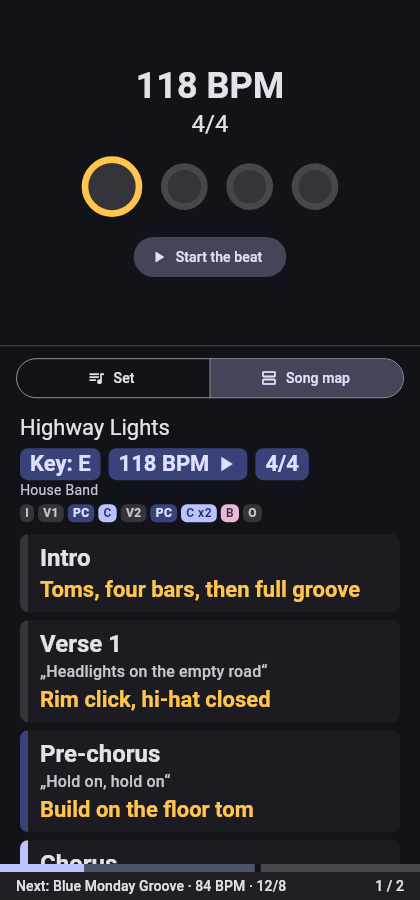
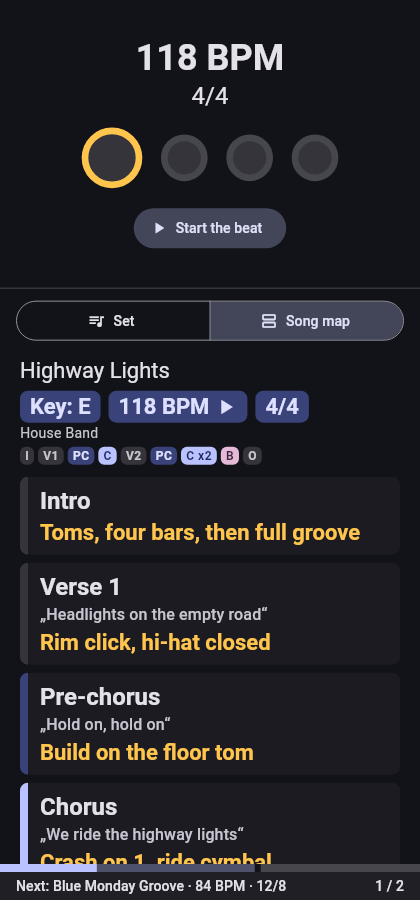
feat(live): beat one third, song map two thirds on phones
With the song map on a phone in portrait the beat now takes a third of
the height and the song map two thirds (was 2:3). The large beat scales
down where its third is too short, so small phones do not overflow.

Refs #961

Changed region(s): [[0.031, 0.0311, 0.9595, 0.9644], [0.681, 0.1244, 0.8048, 0.2489], [0.031, 0.3422, 0.0619, 0.3733]]

diff --git a/app/lib/ui/live/live_beat.dart b/app/lib/ui/live/live_beat.dart
@@ -691,8 +691,8 @@ class DrumPanel extends StatelessWidget {
     final set = _SetList(items: items, current: current, onSelect: onSelect);
     final onView = this.onView;
     final songMap = this.songMap;
-    // The song map needs more room than the set; the beat keeps enough
-    // for its dots and button.
+    // The song map needs more room than the set: in portrait the beat
+    // takes a third of the height (#961) and scales down to fit it.
     final mapRoom =
         onView != null &&
         view == DrumPanelView.songMap &&
@@ -702,16 +702,13 @@ class DrumPanel extends StatelessWidget {
       direction: direction,
       crossAxisAlignment: CrossAxisAlignment.stretch,
       children: [
-        Expanded(
-          flex: mapRoom ? 2 : 1,
-          child: _LargeBeat(index: current),
-        ),
+        Expanded(flex: 1, child: _LargeBeat(index: current)),
         if (direction == Axis.vertical)
           const Divider(height: 1)
         else
           const VerticalDivider(width: 1),
         Expanded(
-          flex: mapRoom ? 3 : 1,
+          flex: mapRoom ? 2 : 1,
           child: onView == null
               ? set
               : Column(
@@ -774,37 +771,44 @@ class _LargeBeat extends StatelessWidget {
         // As large as the width allows for the beats of the bar.
         final count = meter.beatsPerBar + meter.groups.length;
         final size = (constraints.maxWidth / (count * 1.8)).clamp(16.0, 72.0);
-        return Padding(
-          padding: const EdgeInsets.all(16),
-          child: Column(
-            key: const Key('large-beat'),
-            mainAxisAlignment: MainAxisAlignment.center,
-            children: [
-              Text(
-                beat.tempoChanged(index)
-                    ? '${l10n.bpm(tempo)} *'
-                    : l10n.bpm(tempo),
-                style: theme.textTheme.displaySmall?.copyWith(
-                  fontWeight: FontWeight.w800,
-                ),
+        // Scaled down where the height is short, e.g. a third of a small
+        // phone beside the song map (#961).
+        return Center(
+          child: FittedBox(
+            fit: BoxFit.scaleDown,
+            child: Padding(
+              padding: const EdgeInsets.all(16),
+              child: Column(
+                key: const Key('large-beat'),
+                mainAxisSize: MainAxisSize.min,
+                children: [
+                  Text(
+                    beat.tempoChanged(index)
+                        ? '${l10n.bpm(tempo)} *'
+                        : l10n.bpm(tempo),
+                    style: theme.textTheme.displaySmall?.copyWith(
+                      fontWeight: FontWeight.w800,
+                    ),
+                  ),
+                  Text(
+                    [meter.toString(), ?meter.groupingLabel].join('  ·  '),
+                    style: theme.textTheme.headlineSmall,
+                  ),
+                  const SizedBox(height: 16),
+                  FittedBox(
+                    child: BeatDots(index: index, size: size, panel: true),
+                  ),
+                  const SizedBox(height: 16),
+                  if (beat.canBeat(index))
+                    FilledButton.tonalIcon(
+                      key: const Key('large-beat-toggle'),
+                      onPressed: () => beat.toggle(index),
+                      icon: Icon(running ? Icons.stop : Icons.play_arrow),
+                      label: Text(running ? l10n.beatStop : l10n.beatStart),
+                    ),
+                ],
               ),
-              Text(
-                [meter.toString(), ?meter.groupingLabel].join('  ·  '),
-                style: theme.textTheme.headlineSmall,
-              ),
-              const SizedBox(height: 16),
-              FittedBox(
-                child: BeatDots(index: index, size: size, panel: true),
-              ),
-              const SizedBox(height: 16),
-              if (beat.canBeat(index))
-                FilledButton.tonalIcon(
-                  key: const Key('large-beat-toggle'),
-                  onPressed: () => beat.toggle(index),
-                  icon: Icon(running ? Icons.stop : Icons.play_arrow),
-                  label: Text(running ? l10n.beatStop : l10n.beatStart),
-                ),
-            ],
+            ),
           ),
         );
       },

diff --git a/app/test/live_song_map_test.dart b/app/test/live_song_map_test.dart
@@ -319,6 +319,12 @@ void main() {
     final map = tester.getRect(find.byKey(const Key('song-map')));
     expect(beat.bottom, lessThanOrEqualTo(map.top));
     expect(find.byKey(const Key('beat-dots')), findsOneWidget);
+    // The beat takes a third of the height, the song map two (#961).
+    final panel = tester.getRect(find.byKey(const Key('drum-panel')));
+    final switchTop = tester
+        .getRect(find.byKey(const Key('drum-panel-view')))
+        .top;
+    expect((switchTop - 8 - panel.top) / panel.height, closeTo(1 / 3, 0.01));
     // Remembered on the device.
     expect(app.prefs.getString('drumPanelView'), 'songMap');
 
@@ -334,6 +340,35 @@ void main() {
     await tester.tapAt(Offset(screen.center.dx, map.center.dy));
     await tester.pump();
     expect(find.byIcon(Icons.close), findsOneWidget);
+    await app.dispose(tester);
+  });
+
+  testWidgets('a small phone: the beat fits in its third (#961)', (
+    tester,
+  ) async {
+    tester.view.physicalSize = const Size(360, 640);
+    tester.view.devicePixelRatio = 1.0;
+    addTearDown(tester.view.reset);
+    final app = await TestApp.create(
+      prefs: {
+        'language': 'en',
+        'instrument': 'drums',
+        'clickStart': 'manual',
+        'drumPanelView': 'songMap',
+      },
+    );
+    final items = (await tester.runAsync(() async {
+      final id = await app.songs.createSong(source: first);
+      return [LiveItem.song((await app.songs.getSong(id))!)];
+    }))!;
+    await tester.pumpWidget(app.build(home: LiveScreen(items: items)));
+    await tester.pump();
+    await tester.pump();
+    // No overflow (the test fails on one); the beat stays above the map.
+    expect(find.byKey(const Key('large-beat-toggle')), findsOneWidget);
+    final toggle = tester.getRect(find.byKey(const Key('large-beat-toggle')));
+    final view = tester.getRect(find.byKey(const Key('drum-panel-view')));
+    expect(toggle.bottom, lessThanOrEqualTo(view.top));
     await app.dispose(tester);
   });
 

diff --git a/docs/architecture/adr/0026-drummer-mode.md b/docs/architecture/adr/0026-drummer-mode.md
@@ -208,6 +208,7 @@ with the idle-time preparation of the next song (#296).
 - 2026-11-20: Accepted by the owner (#698). A grouping per band arrangement stays open until a band needs it.
 - 2026-11-20: Per-song click preferences implemented (#698). The `chordpro` package has `Subdivision` (off, eighths, sixteenths, triplets) with `Meter.stepsPerBeat`, `Meter.subdivisionChoices` (choices that sound different in the meter; e.g. no eighths in 7/8, no triplets in 6/8), `Meter.withGrouping` and `Meter.groupingChoices` (the groupings into twos and threes, at most 24); the numerator alone (`7`) means no groups. Local overlay columns `click_grouping` and `click_subdivision` (schema 27), on the server `click_grouping` and `click_subdivision` in the overlay's `data`. The personal setting `clickSubdivision` keeps its key and becomes the choice's name; the boolean of older versions reads as eighths (on) or off. The click renders `stepsPerBeat` clicks per beat; `Metronome.changeBar` swaps the grouping or the subdivisions of a running beat at the next bar line (the bar keeps its length). Live mode: a grouping button (odd meters) and a subdivision button (with the click on, or while set) in the tempo row, also on phones; `LiveBeat` loads the current song's overlay before a start and follows its changes. Song screen: two chips in the personal panel, for people who use the beat (grouping) or the click (subdivisions), and while set; they count as an adjustment (dot, reset).
 - 2026-11-23: Owner request (#952): on phones the drum panel has a segmented button *Set | Song map* above the set. *Song map* shows the song map of the current song (with its header) in place of the set; the beat stays, in portrait with less room (2 : 3), as the map needs more. The choice is a device setting (`drumPanelView`, the screen decides what fits), not in the settings screen. The page turner and the tap zones still turn from song to song (no scrolling by pedal); the song map of a song turned to starts at the top and scrolls by dragging. The tap zones stay thirds of the stage, also on the song map beside the beat in landscape. This amends the decision of #421 (no song map on phones).
+- 2026-11-23: Owner request (#961): with the song map on a phone in portrait the beat takes a third of the height and the song map two thirds (was 2 : 3); the large beat scales down where that third is too short for it (small phones).
 
 ## Open points
 
